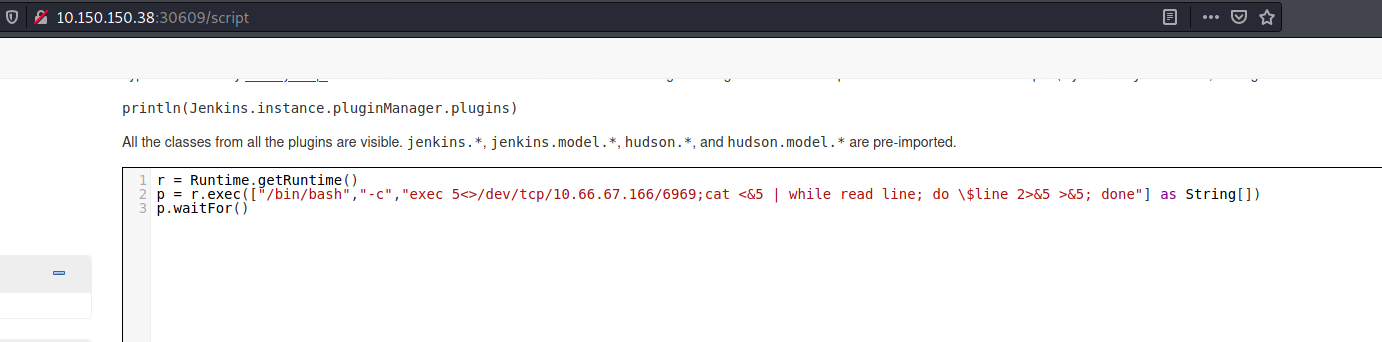
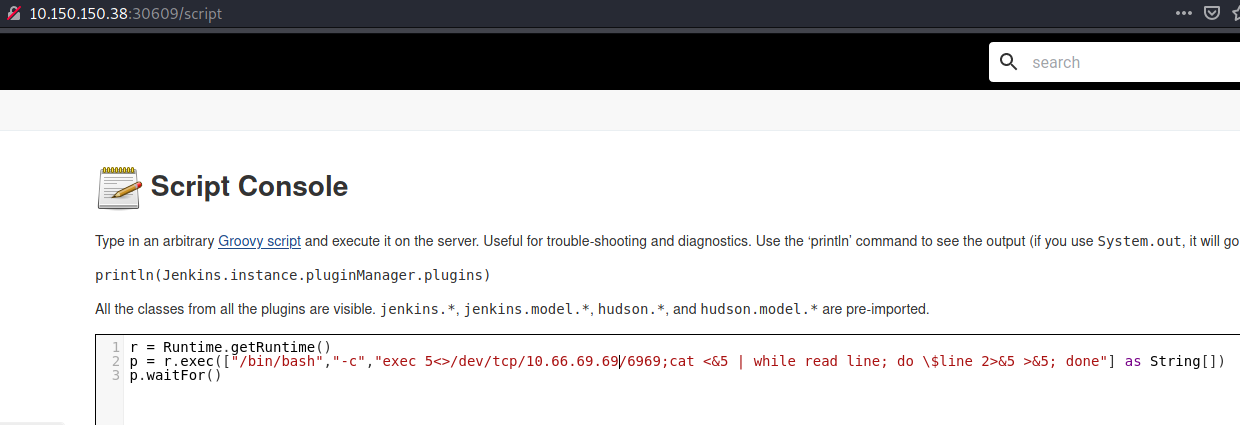
Fixed IP stuff

diff --git a/_posts/2021-09-06-PwnTillDawn-JuniorDev-Writeup.md b/_posts/2021-09-06-PwnTillDawn-JuniorDev-Writeup.md
@@ -201,7 +201,7 @@ And we're in:
 ```bash
 └─$ nc -nlvp 6969
 listening on [any] 6969 ...
-connect to [10.66.67.166] from (UNKNOWN) [10.150.150.38] 58262
+connect to [10.66.69.69] from (UNKNOWN) [10.150.150.38] 58262
 whoami
 jenkins
 ```
@@ -236,10 +236,10 @@ Active Internet connections (servers and established)
 Proto Recv-Q Send-Q Local Address           Foreign Address         State       PID/Program name    
 tcp        0      0 127.0.0.1:8080          0.0.0.0:*               LISTEN      -                   
 tcp        0      0 0.0.0.0:22              0.0.0.0:*               LISTEN      -                   
-tcp        0    286 10.150.150.38:58264     10.66.67.166:6969       ESTABLISHED 636/bash            
+tcp        0    286 10.150.150.38:58264     10.66.69.69:6969       ESTABLISHED 636/bash            
 tcp6       0      0 :::30609                :::*                    LISTEN      467/java            
 tcp6       0      0 :::22                   :::*                    LISTEN      -                   
-tcp6       1      0 10.150.150.38:30609     10.66.67.166:48350      CLOSE_WAIT  467/java
+tcp6       1      0 10.150.150.38:30609     10.66.69.69:48350      CLOSE_WAIT  467/java
 ```
 
 # [](header-1)Port forwarding.
